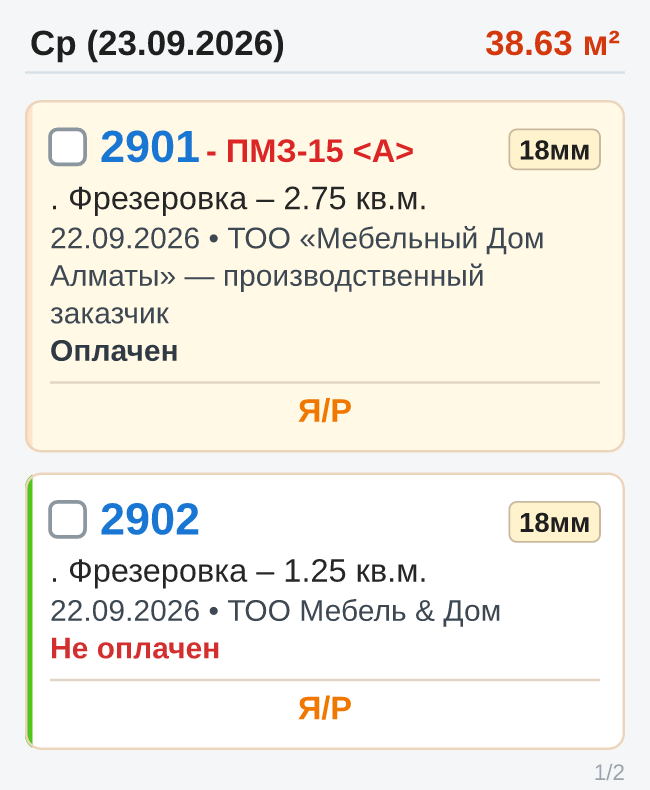
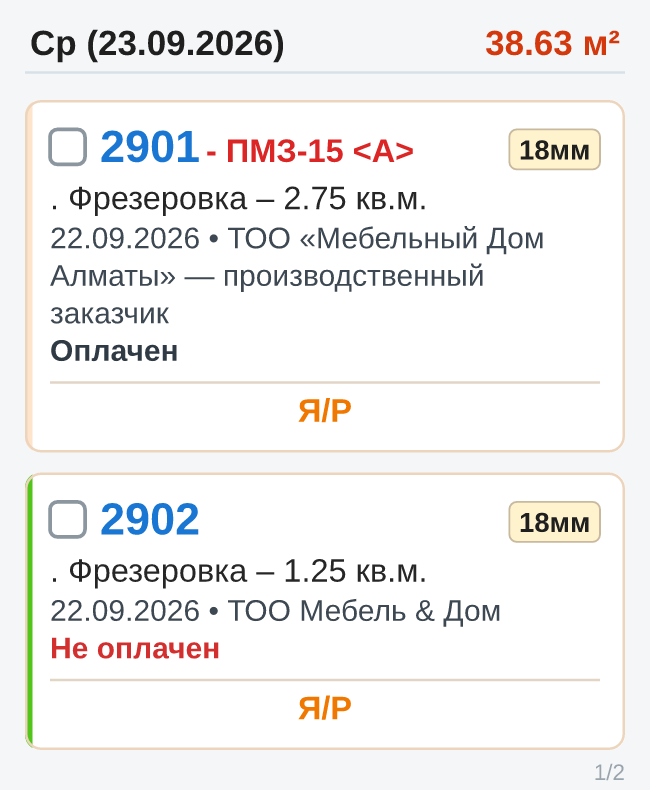
fix(whatsapp): white background for in-work digest cards
The digest image showed «В работе» orders on a yellow fill; the user asked
for white. Other status fills, accents and material tag colours are
unchanged. Renderer version daily-order-cards-v3.

diff --git a/backend/src/modules/whatsapp/daily-digest-renderer.test.ts b/backend/src/modules/whatsapp/daily-digest-renderer.test.ts
@@ -159,7 +159,7 @@ describe('DailyDigestRenderer', () => {
     expect(bold && existsSync(bold)).toBeTruthy();
     expect(bold).toContain('LiberationSans-Bold.ttf');
     expect(readFileSync(bold as string).byteLength).toBeGreaterThan(100_000);
-    expect(DAILY_DIGEST_RENDERER_VERSION).toBe('daily-order-cards-v2');
+    expect(DAILY_DIGEST_RENDERER_VERSION).toBe('daily-order-cards-v3');
   });
 
   it('renders a narrow image at layout width x zoom with a content-driven height', async () => {
@@ -177,6 +177,25 @@ describe('DailyDigestRenderer', () => {
     expect(PNG.sync.read(longer.png).height).toBeGreaterThan(plainPng.height);
     expect(PNG.sync.read(noStages.png).height).toBeLessThan(plainPng.height);
     expect(plainPng.height).toBeLessThan(450 * DAILY_DIGEST_RENDER_ZOOM);
+  });
+
+  it('renders an in-work order card on a white background (no yellow tint)', async () => {
+    const count = (png: PNG, rgb: [number, number, number]) => {
+      let n = 0;
+      for (let i = 0; i < png.data.length; i += 4) {
+        if (png.data[i] === rgb[0] && png.data[i + 1] === rgb[1] && png.data[i + 2] === rgb[2]) n += 1;
+      }
+      return n;
+    };
+    const [working] = await renderer.render({ ...makeSnapshot([makeOrder(2)]), cardsPerMessage: 1 });
+    const workingPng = PNG.sync.read(working.png);
+    expect(count(workingPng, [0xff, 0xf9, 0xe6])).toBe(0);
+    expect(count(workingPng, [0xff, 0xff, 0xff])).toBeGreaterThan(workingPng.width * workingPng.height * 0.3);
+    const [ready] = await renderer.render({
+      ...makeSnapshot([makeOrder(2, { orderStatusName: 'Готов' })]),
+      cardsPerMessage: 1,
+    });
+    expect(count(PNG.sync.read(ready.png), [0xff, 0xd9, 0xbf])).toBeGreaterThan(1000);
   });
 
   it('keeps one-card, two-card and maximum-content pages far below the byte limit', async () => {

diff --git a/src/releaseNotes.ts b/src/releaseNotes.ts
@@ -34,6 +34,7 @@ export const releaseNotes: ReleaseNoteEntry[] = [
     changed: [
       "Картинки ежедневной рассылки заказов теперь выглядят как карточки календаря: уже и плотнее, номер заказа и статус оплаты жирным, метки материалов — в строке номера, коды этапов производства — по центру карточки.",
       "Заголовок картинки — одна строка «Ср (30.09.2026)» с общей площадью справа, как в календаре.",
+      "Карточки заказов «В работе» на картинках — на белом фоне (без жёлтой заливки).",
     ],
   },
   {

diff --git a/backend/src/modules/whatsapp/daily-digest-renderer.ts b/backend/src/modules/whatsapp/daily-digest-renderer.ts
@@ -395,7 +395,7 @@ function pageSvg(input: {
 
 function statusColor(status: string): string {
   if (status === 'готов') return '#ffd9bf';
-  if (status === 'в работе' || status.includes('работ')) return '#fff9e6';
+  if (status === 'в работе' || status.includes('работ')) return '#ffffff';
   if (status === 'отменен' || status.includes('отмен')) return '#ffe6e6';
   return '#ffffff';
 }

diff --git a/backend/src/modules/whatsapp/daily-digest-snapshot.types.ts b/backend/src/modules/whatsapp/daily-digest-snapshot.types.ts
@@ -1,4 +1,4 @@
-export const DAILY_DIGEST_RENDERER_VERSION = 'daily-order-cards-v2';
+export const DAILY_DIGEST_RENDERER_VERSION = 'daily-order-cards-v3';
 export const DAILY_DIGEST_MAX_ORDERS = 500;
 export const DAILY_DIGEST_MAX_PAGE_BYTES = 1024 * 1024;
 export const DAILY_DIGEST_MAX_RUN_BYTES = 16 * 1024 * 1024;
